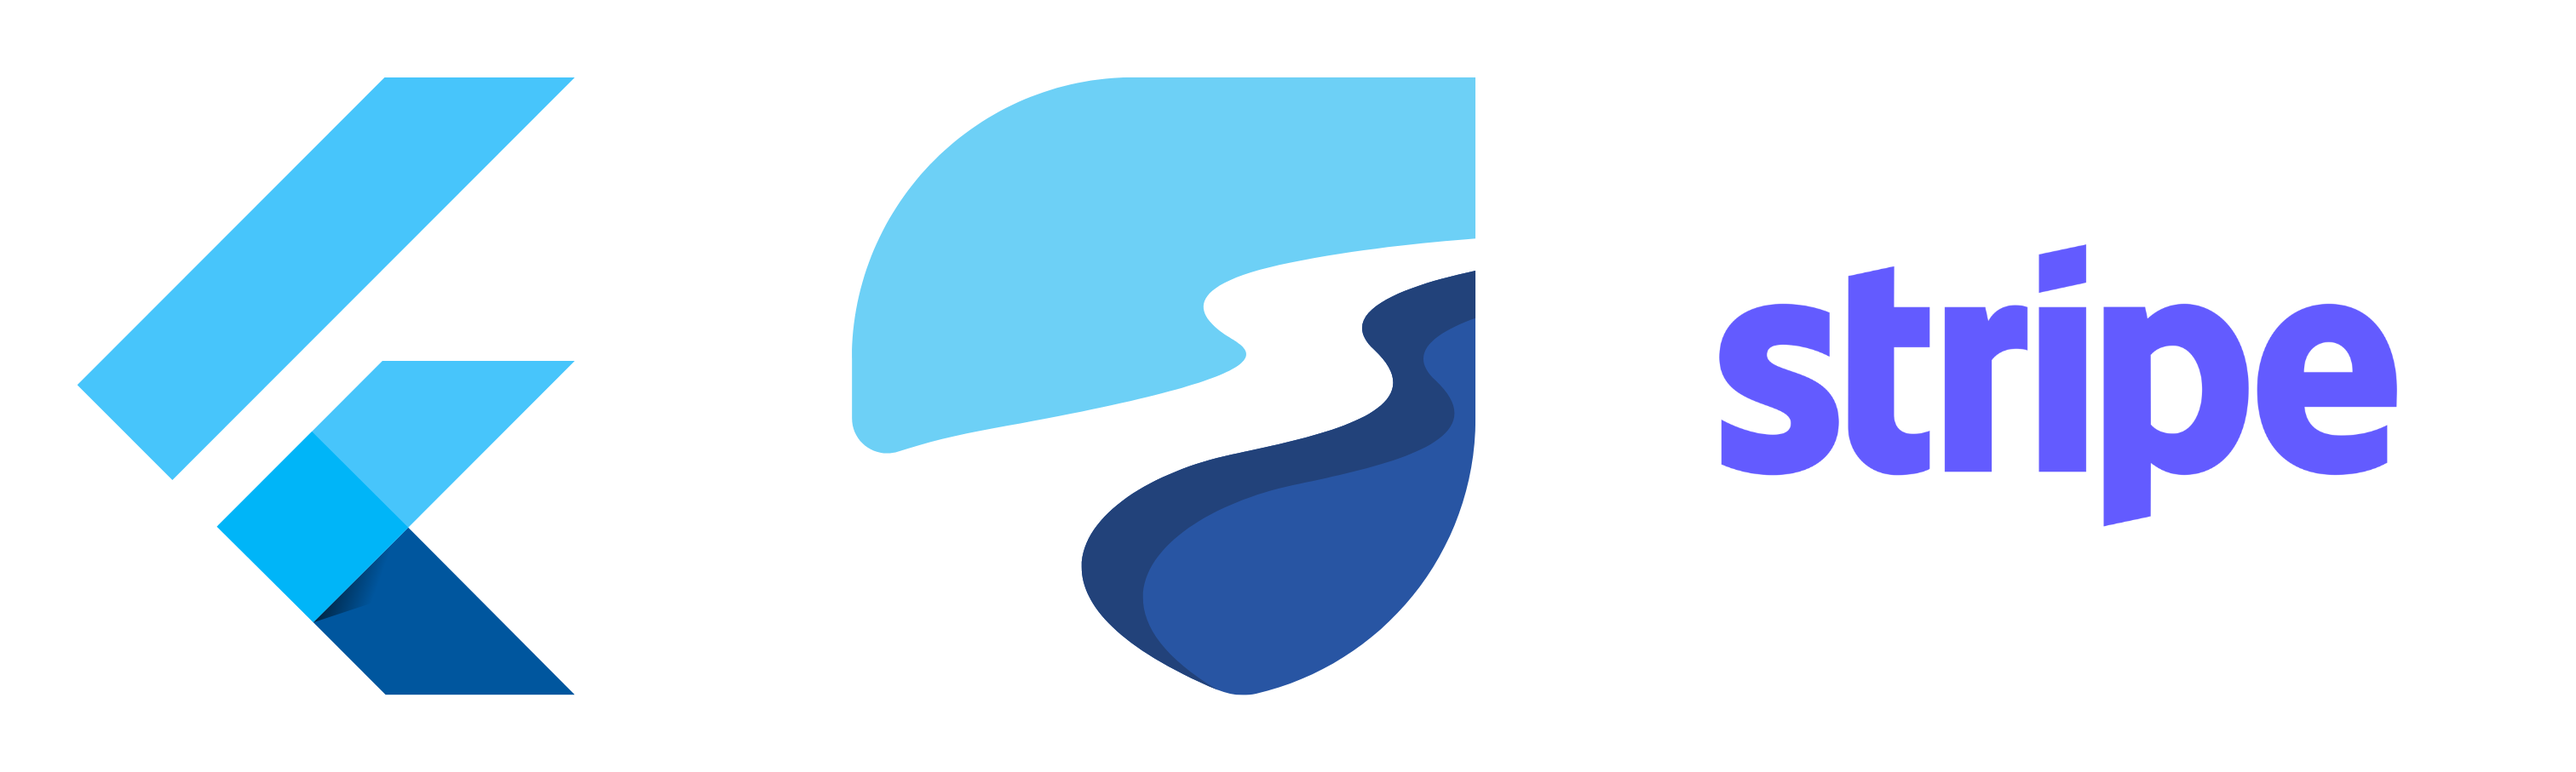
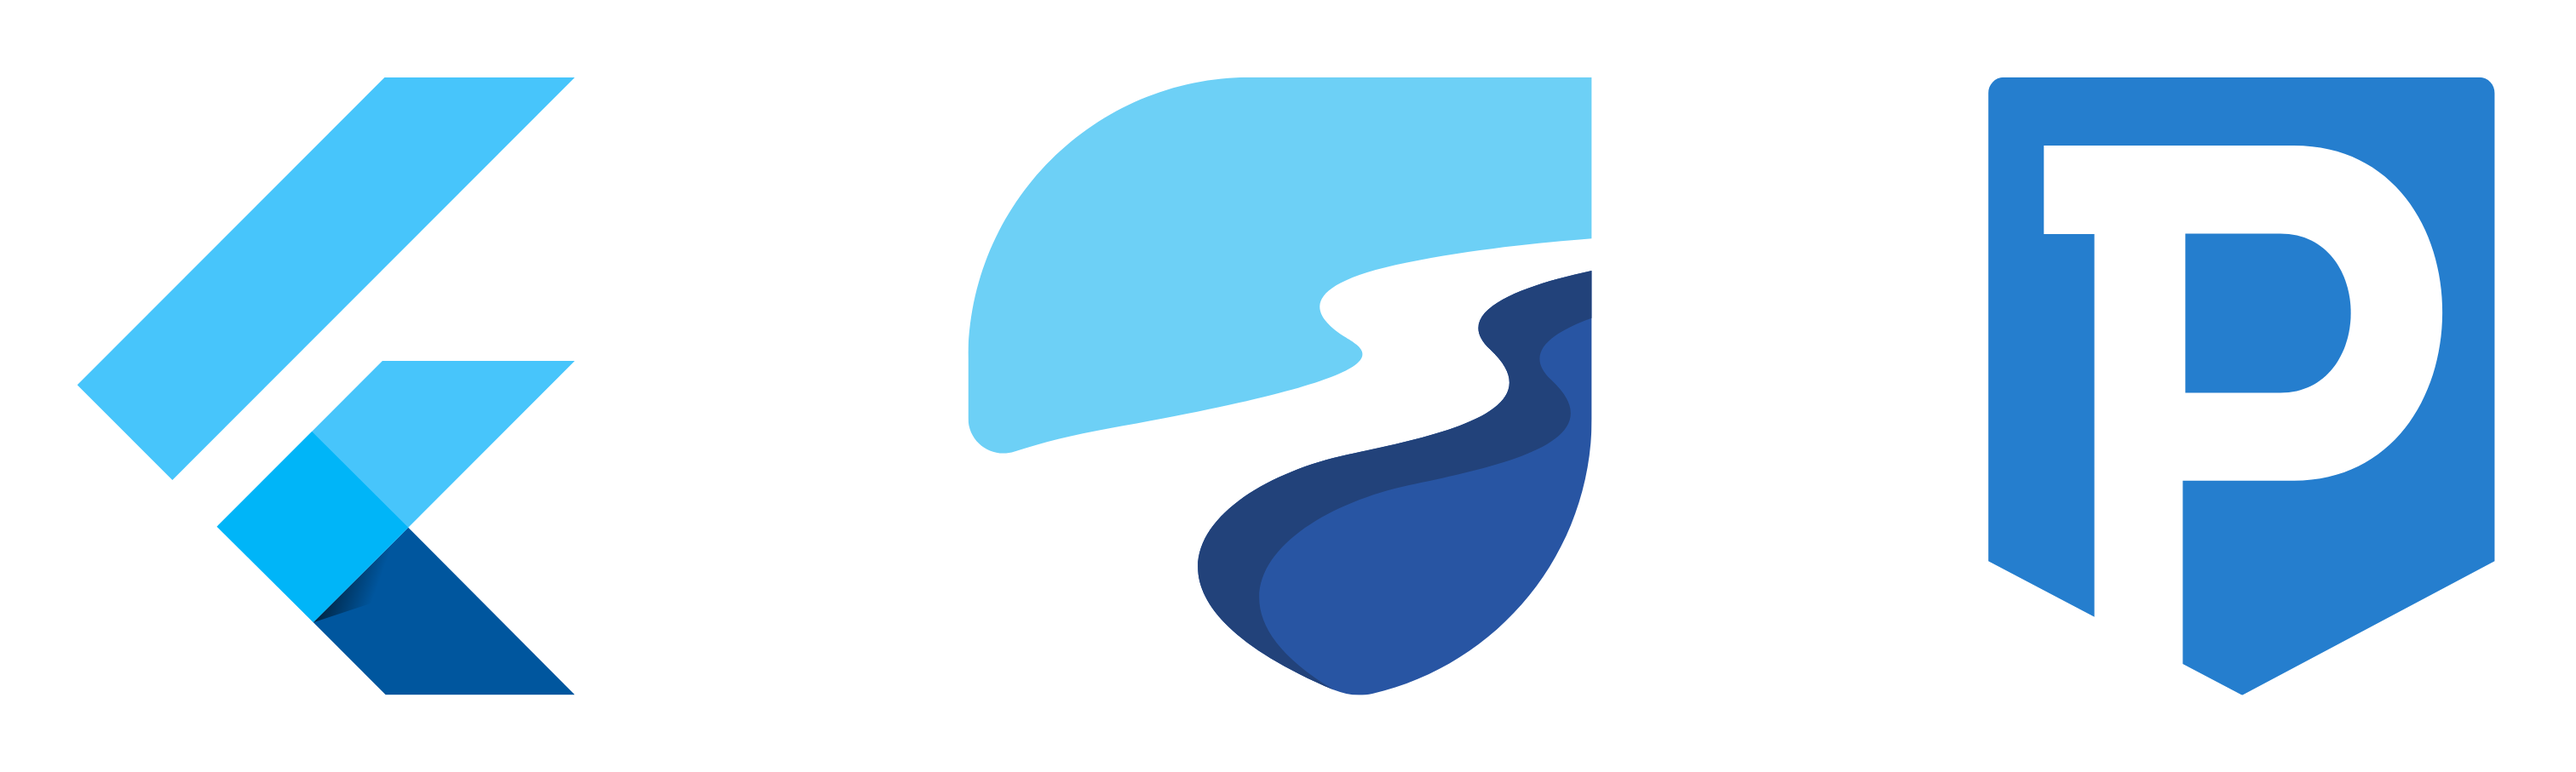
new readme gifs & techs

Changed region(s): [[0.6528, 0.0926, 0.9947, 0.8953], [0.3108, 0.0926, 0.6217, 0.8953]]

diff --git a/lib/domain/services/paytabs_service.dart b/lib/domain/services/paytabs_service.dart
@@ -1,3 +1,4 @@
+import 'package:flutter_paytabs_bridge/BaseBillingShippingInfo.dart';
 import 'package:flutter_paytabs_bridge/IOSThemeConfiguration.dart';
 import 'package:flutter_paytabs_bridge/PaymentSdkConfigurationDetails.dart';
 import 'package:flutter_paytabs_bridge/PaymentSdkLocale.dart';
@@ -24,6 +25,7 @@ class PayTabsService {
 
     var theme = IOSThemeConfigurations();
     theme.logoImage = AssetImages.appLogo;
+    theme.backgroundColor = "fc1055";
     configuration.iOSThemeConfigurations = theme;
 
     configuration.showBillingInfo = true;

diff --git a/lib/presentation/payment/payment_viewmodel.dart b/lib/presentation/payment/payment_viewmodel.dart
@@ -20,7 +20,7 @@ class PaymentViewModel {
           if (transactionDetails["isSuccess"]) {
             ref.setPaymentState(SuccessPaymentState());
           } else {
-            ref.setPaymentState(ErrorPaymentState('Error'));
+            ref.setPaymentState(ErrorPaymentState(event["message"]));
           }
         } else if (event["status"] == "error") {
           ref.setPaymentState(ErrorPaymentState('Error'));
